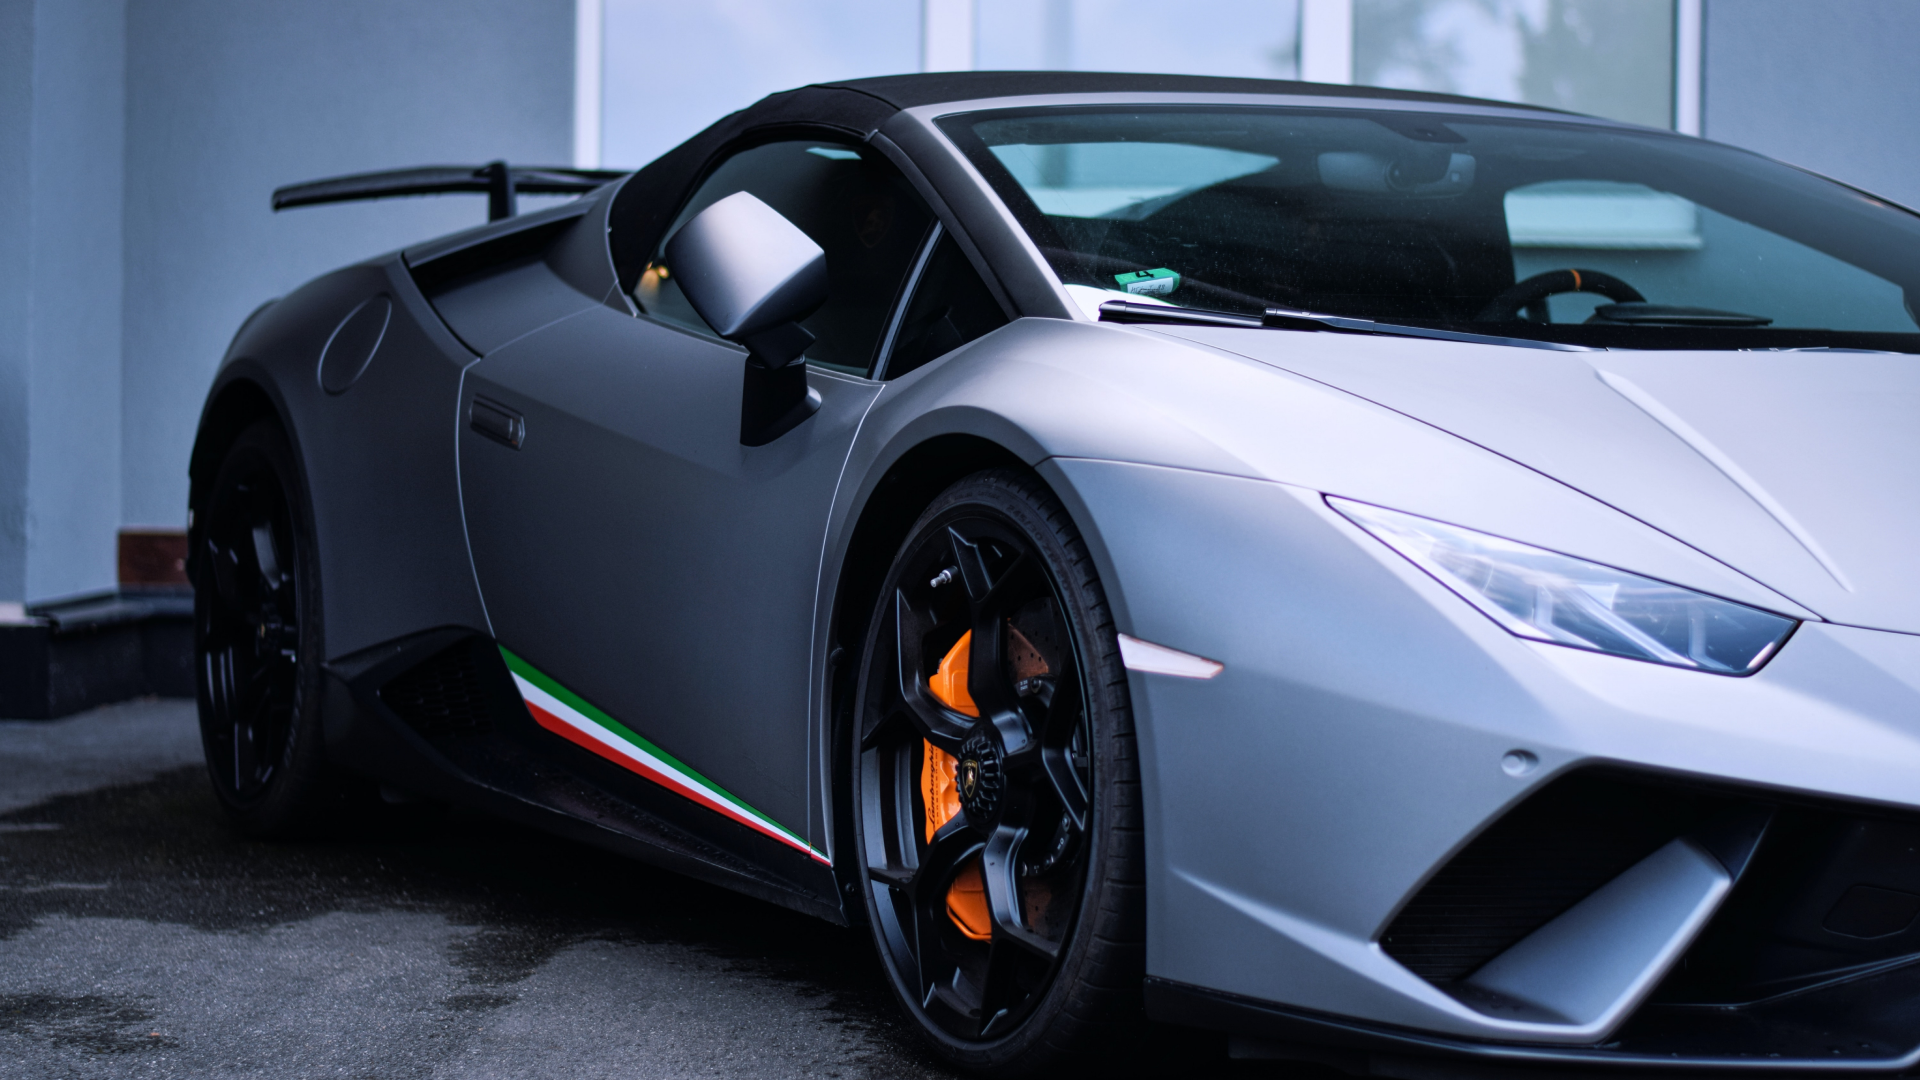
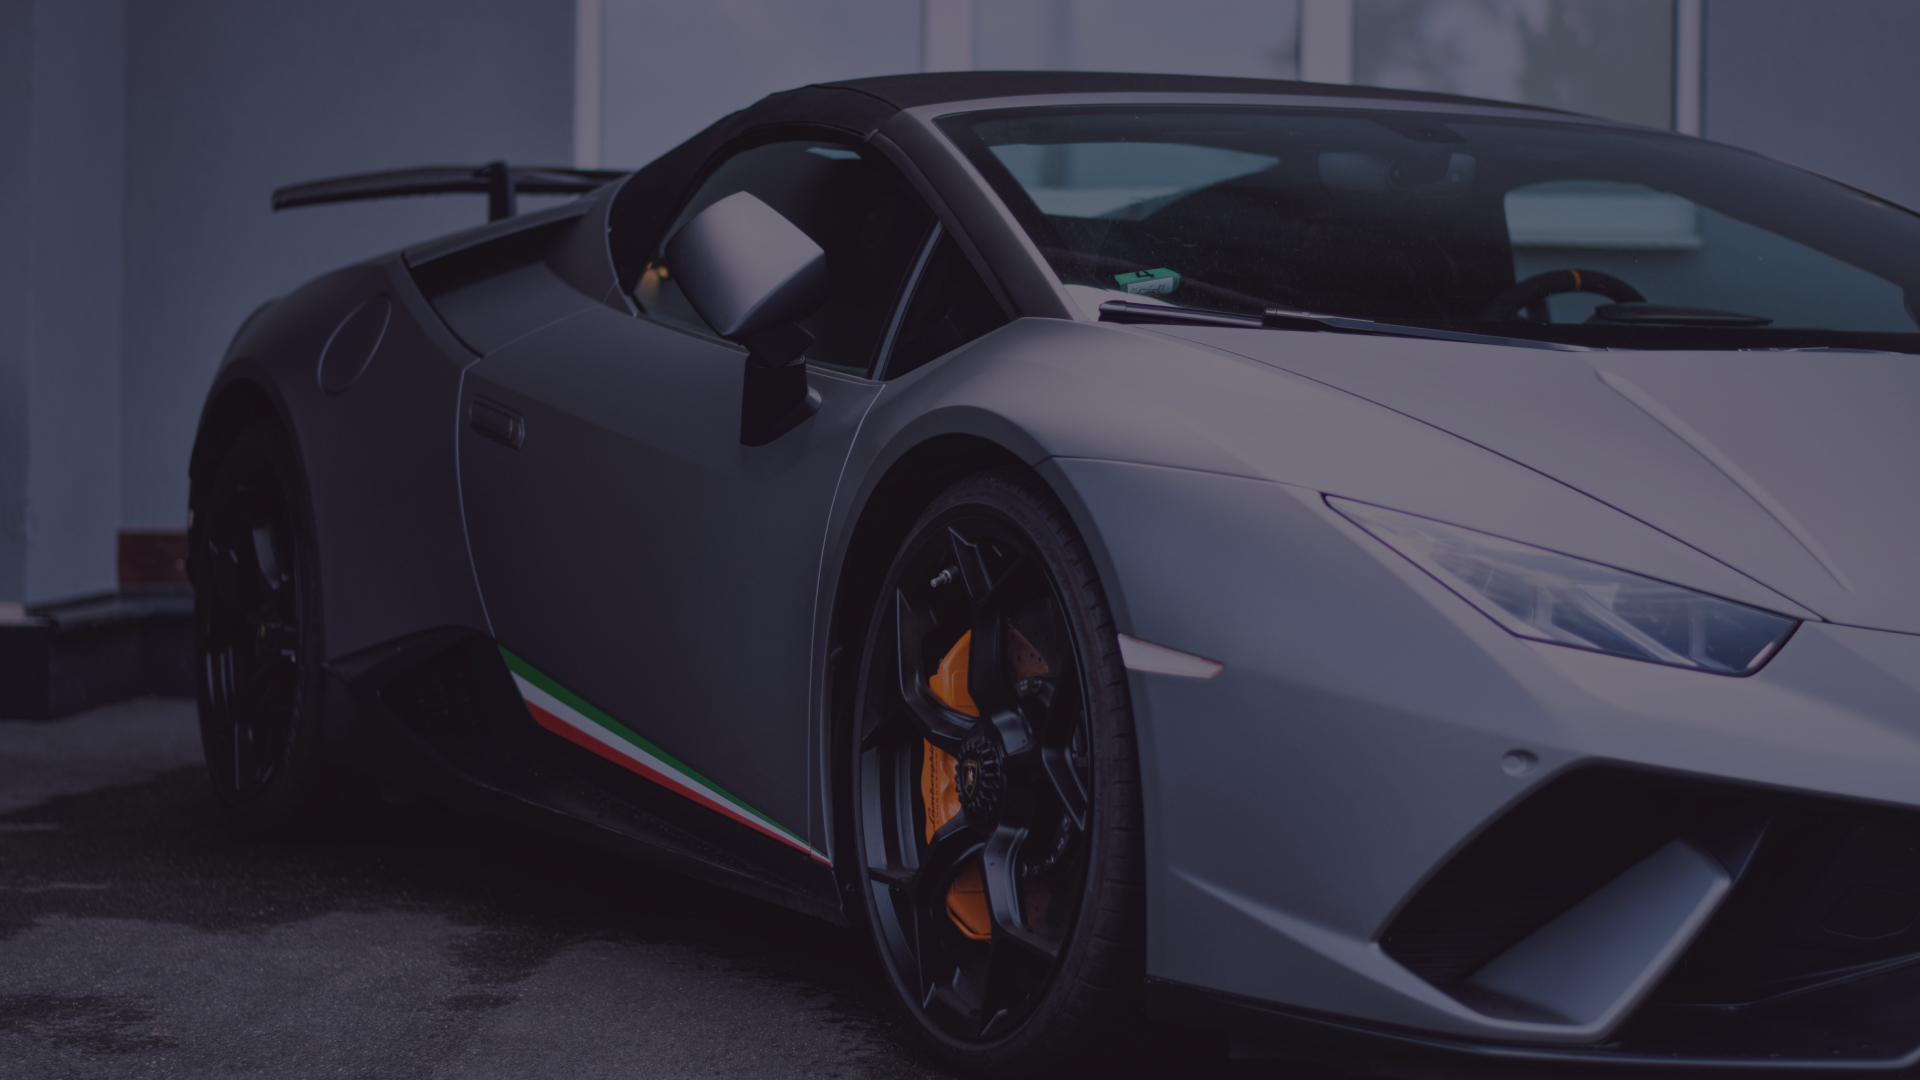
Сверстал шапку сайта

diff --git a/index.html b/index.html
@@ -6,9 +6,25 @@
 
     <link rel="stylesheet" href="/libs/bootstrap/bootstrap-reboot.css">
     <link rel="stylesheet" href="/libs/bootstrap/bootstrap.min.css">
+    <link rel="stylesheet" href="/style.css">
+
+    <link rel="preconnect" href="https://fonts.googleapis.com">
+    <link rel="preconnect" href="https://fonts.gstatic.com" crossorigin>
+    <link href="https://fonts.googleapis.com/css2?family=Jura&family=Kanit:wght@400;600;800;900&display=swap"
+          rel="stylesheet">
 </head>
 <body>
-test
+    <header class="main-header">
+        <div class="container">
+            <div class="main-header-wrapper">
+                <div class="main-header-content">
+                    <h1 class="main-header-title">Автомастерская e-queo</h1>
+                    <p class="main-header-subtitle">Ремонт и благополучие вашего автомобиля</p>
+                    <a class="page-button" href="#">Записаться на прием</a>
+                </div>
+            </div>
+        </div>
+    </header>
 <script src="/libs/bootstrap/bootstrap.min.js"></script>
 </body>
 </html>
